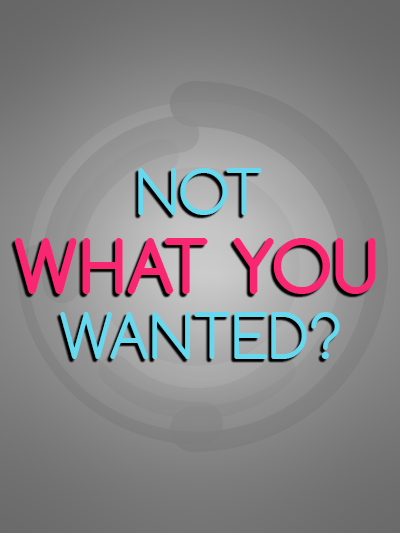
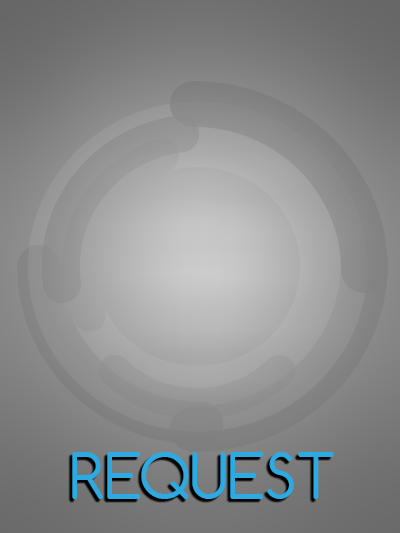
request card change image

Changed region(s): [[0.03, 0.3002, 0.96, 0.6904], [0.15, 0.8405, 0.84, 0.9606], [0.48, 0.3002, 0.66, 0.4203]]

diff --git a/css/organizr.css b/css/organizr.css
@@ -379,3 +379,44 @@ input#inviteCodeInput {
 .request-result-item {
 	width: 230px;
 }
+.customPoster {
+  margin: 50px auto;
+  text-align: center;
+  position: absolute;
+  top: 0;
+  left: 0;
+  width: 200px;
+}
+.customPoster a {
+  text-decoration: none;
+  -webkit-transform: perspective(2.5em) rotateX(15deg) scaleY(0.8);
+  -moz-transform: perspective(2.5em) rotateX(15deg) scaleY(0.8);
+  -ms-transform: perspective(2.5em) rotateX(15deg) scaleY(0.8);
+  -o-transform: perspective(2.5em) rotateX(15deg) scaleY(0.8);
+  transform: perspective(2.5em) rotateX(15deg) scaleY(0.8);
+  -webkit-transition: all 0.5s;
+  -moz-transition: all 0.5s;
+  transition: all 0.5s;
+  display: inline-block;
+  text-align: center;
+  text-transform: uppercase;
+  font-size: 35px;
+  font-weight: 700;
+  font-family: inherit;
+  line-height: 0.8;
+  color: #707cd2;
+  text-shadow: 0 -1px 15px rgba(0, 0, 0, 0.9), 0 1px 0 #7d7d7d, 0 3px 0 #828282, 0 5px 0 #6c6c6c, 0 7px 0 #727272, 0 9px 0 #939393, 0 6px 50px rgb(27, 26, 26);
+  width: 200px;
+  max-width: 200px;
+}
+.customPoster a:first-line {
+  font-size: 0.8em;
+}
+.el-overlay-1:hover .customPoster a  {
+  -webkit-transform: perspective(8em) rotateX(11deg) scale(1.2);
+  -moz-transform: perspective(8em) rotateX(11deg) scale(1.2);
+  -ms-transform: perspective(8em) rotateX(11deg) scale(1.2);
+  -o-transform: perspective(8em) rotateX(11deg) scale(1.2);
+  transform: perspective(8em) rotateX(11deg) scale(1.2);
+  text-shadow: 0 -1px 15px black, 0 1px 0 #7f6303, 0 2px 0 #846703, 0 0px 0 #896b03, 0 1px 0 #8e6f03, 0 2px 0 #937203, 0 2px 30px rgba(252, 223, 92, 0.6);
+}

diff --git a/js/functions.js b/js/functions.js
@@ -3464,6 +3464,14 @@ function forceSearch(term){
         3000);
     }
 }
+function splitPoster(str){
+	var words = str.split(' ');
+	var newWord = '';
+	$.each(words, function(i,v) {
+		newWord += v+'<br/>';
+	});
+	return newWord;
+}
 function buildMediaResults(array,source,term){
     if(array.content.length == 0){
 		var none = '<h2 class="text-center" lang="en">No Results for:</h2><h3 class="text-center" lang="en">'+term+'</h3>';
@@ -3510,7 +3518,11 @@ function buildMediaResults(array,source,term){
 		<div class="col-lg-3 col-md-4 col-sm-6 col-xs-12 m-t-20 request-result-item request-result-movie mouse"  onclick="forceSearch('`+term+`')">
 			<div class="white-box m-b-10">
 				<div class="el-card-item p-b-0">
-					<div class="el-card-avatar el-overlay-1 m-b-5"> <img class="lazyload resultImages mouse" data-src="plugins/images/cache/no-request.png"></div>
+					<div class="el-card-avatar el-overlay-1 m-b-5"> <img class="lazyload resultImages mouse" data-src="plugins/images/cache/no-request.png">
+						<div class="customPoster">
+							<a href="javascript:void(0);">`+splitPoster(term)+`</a>
+						</div>
+					</div>
 					<div class="el-card-content bg-org">
 						<h3 class="box-title elip">`+term+`</h3> <small lang="en">Request Me!</small>
 						<br>
